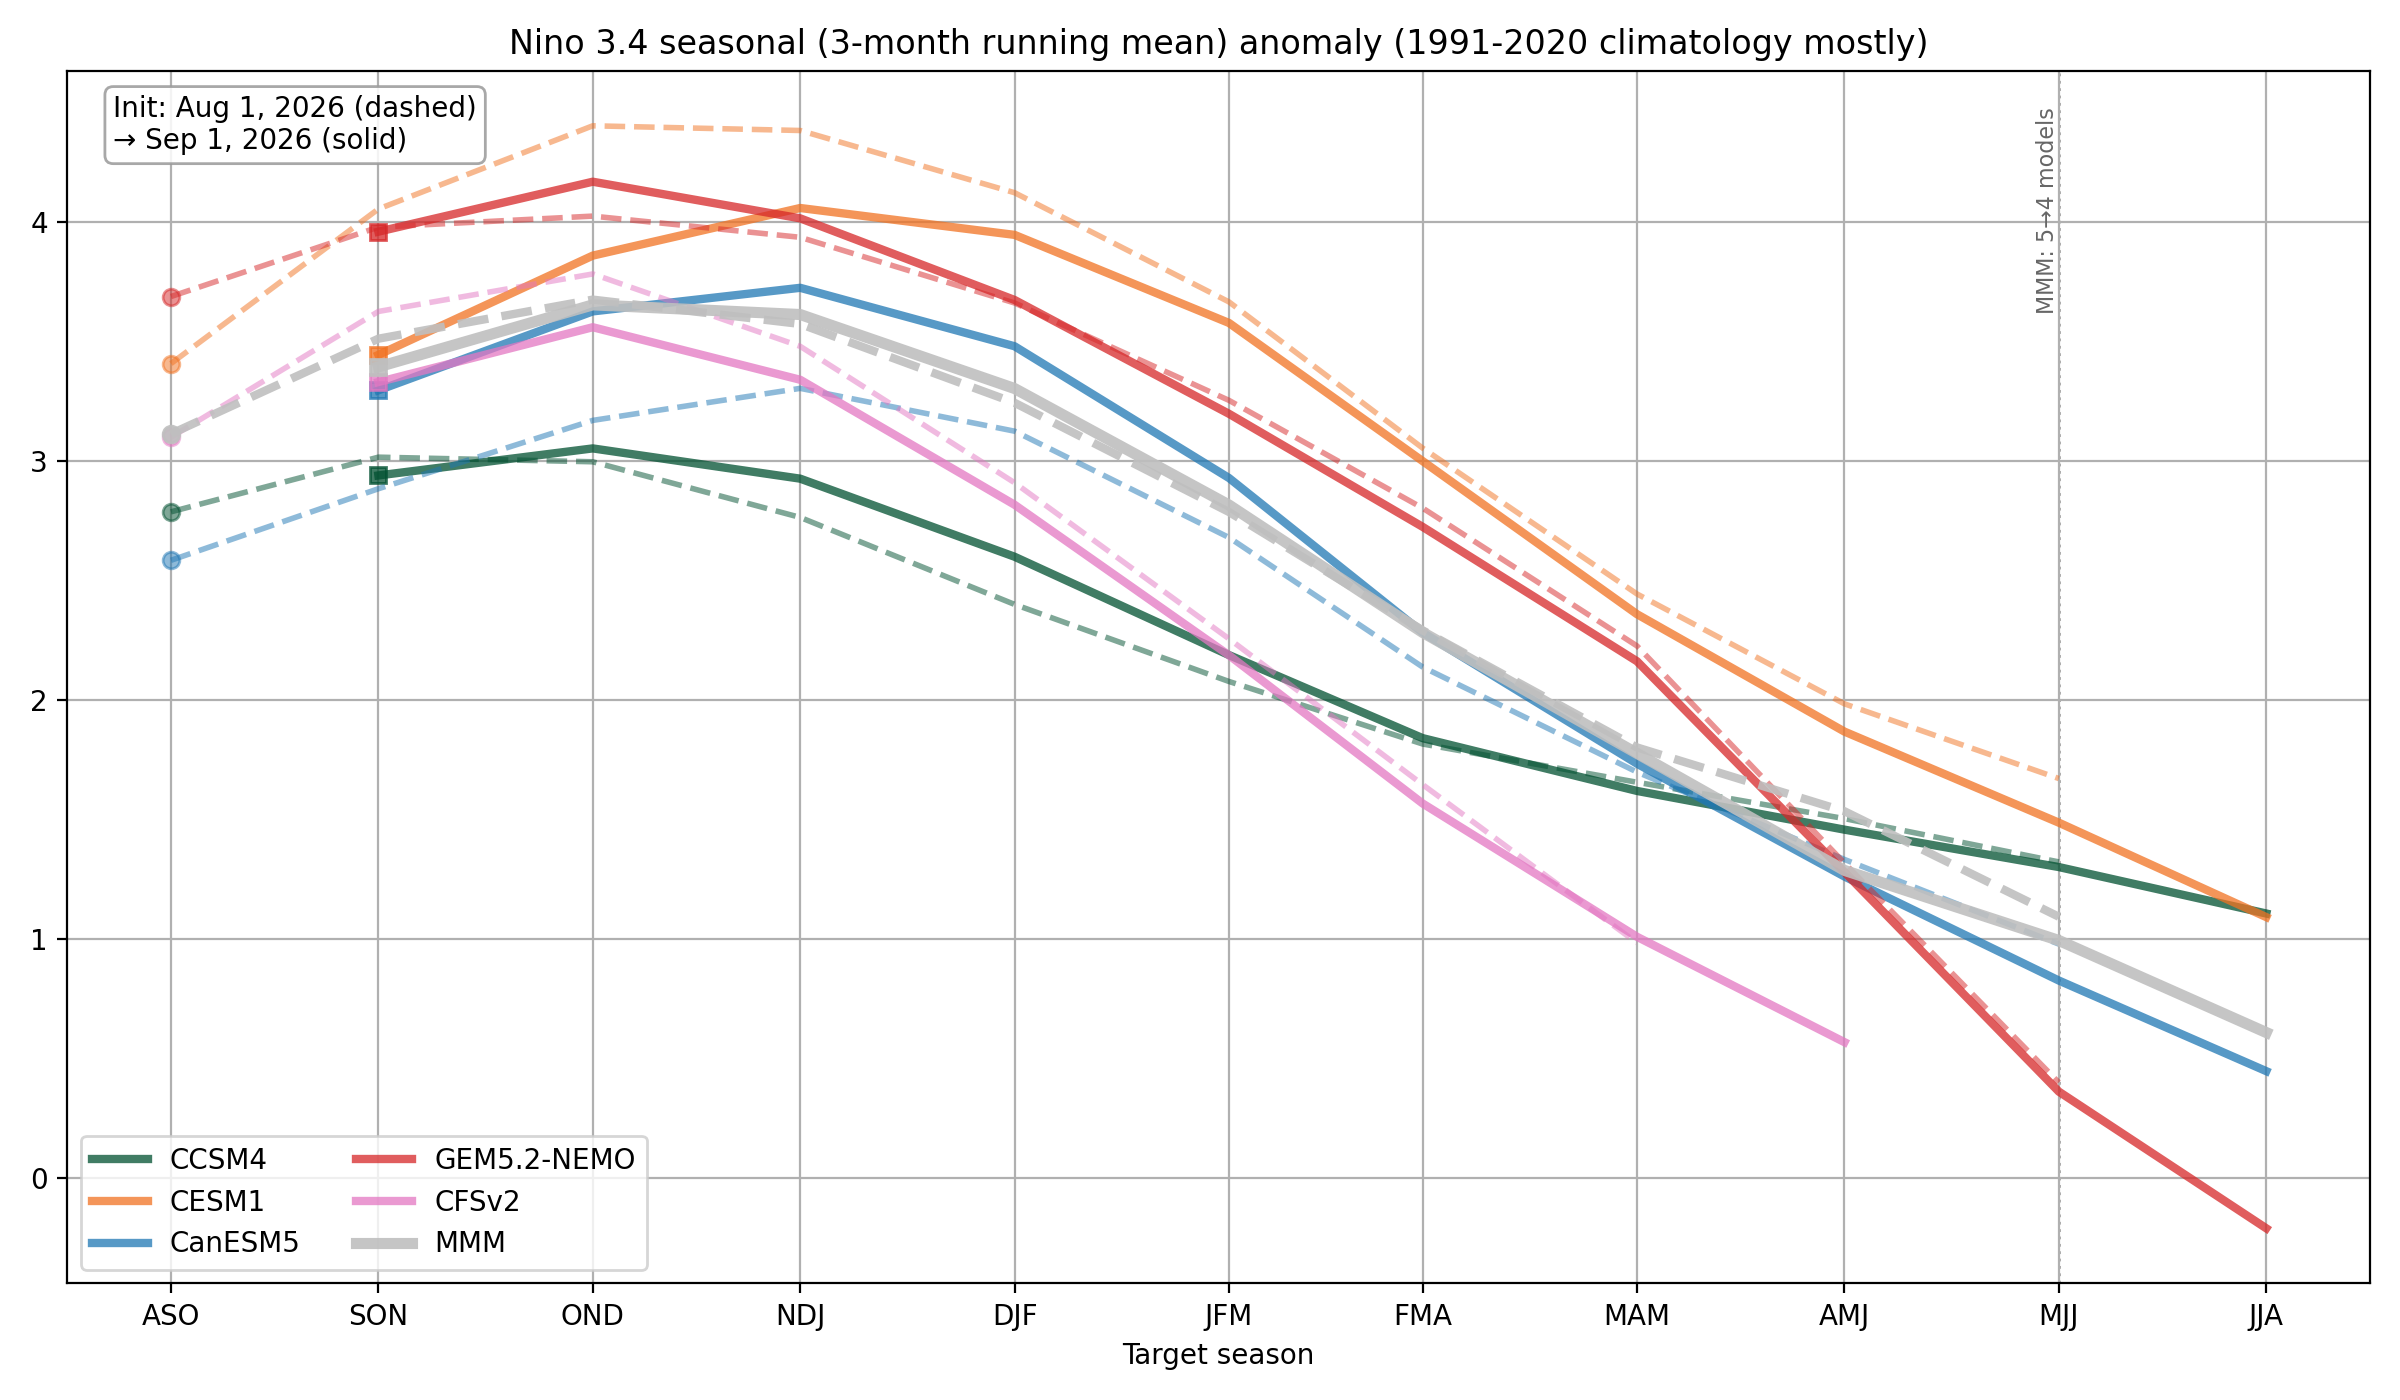
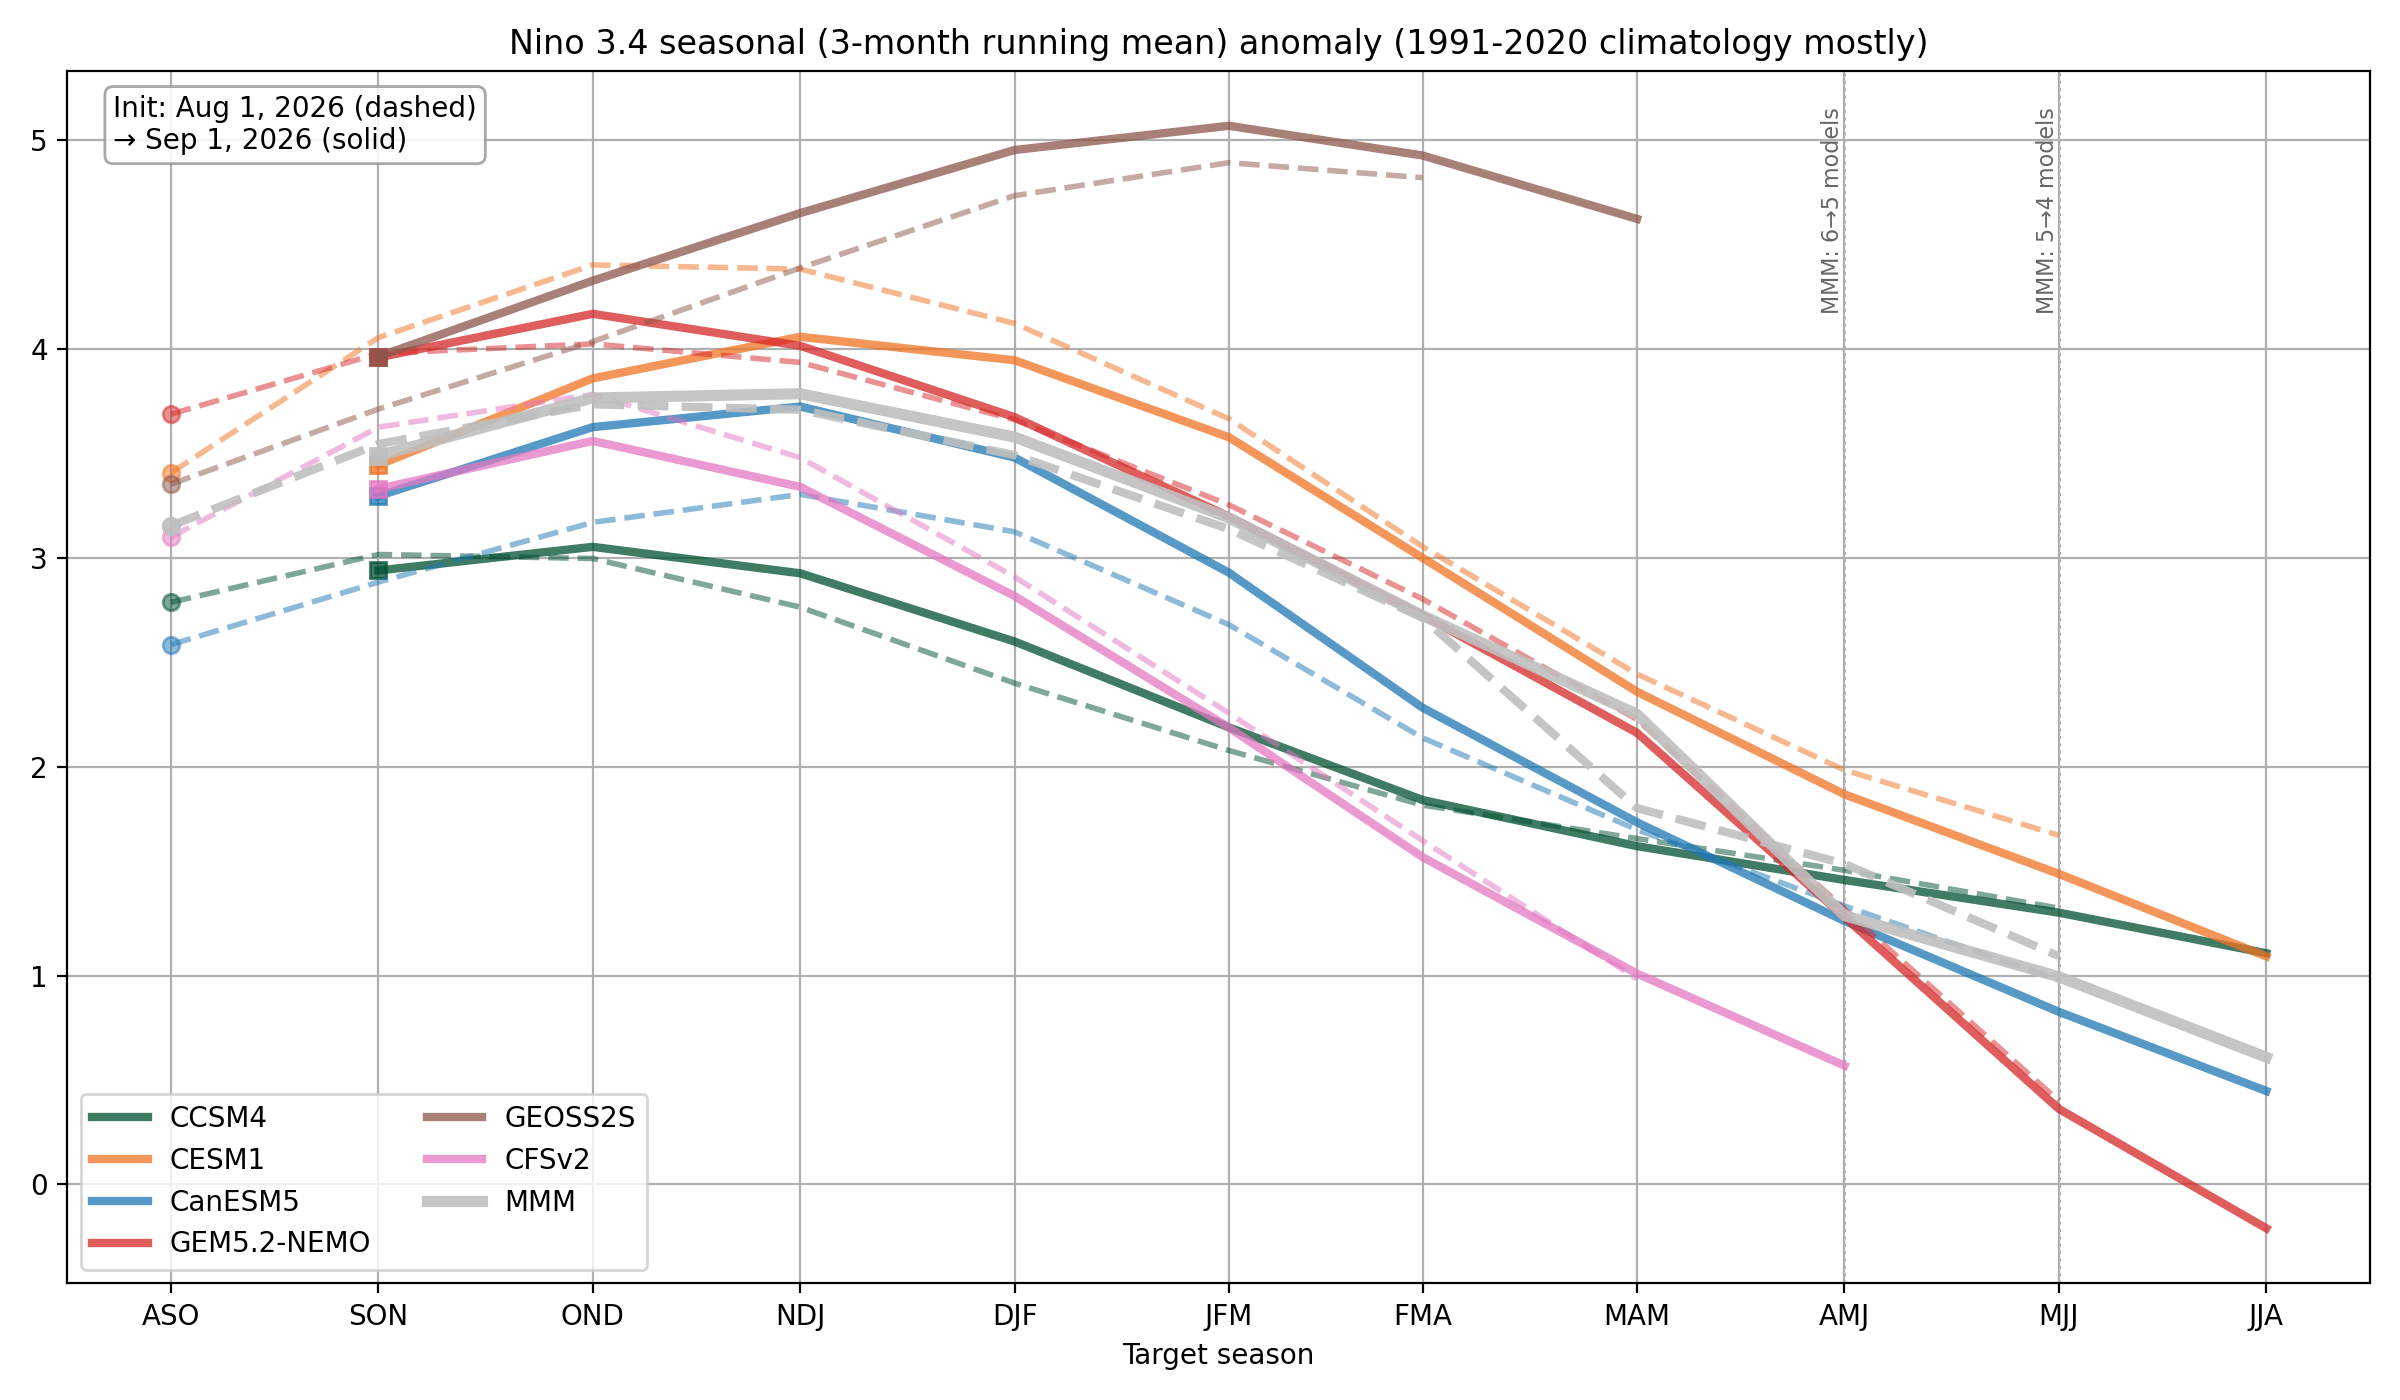
Regenerate latest-forecast plots: NASA-GEOSS2S back in the model pool
Re-ran latest_forecast.py under pangeo-local (not pangeo-2025, whose
installed zarr-python can't read the current store's v3 metadata) now that
NASA-GEOSS2S data is available again for the 2026-09 init. avail grows from
5 to 6 models; the new _annotate_mmm_steps markers now show both
composition changes (6→5 at lead 9 when GEOSS2S drops, 5→4 at lead 10 when
NCEP-CFSv2 drops).

Claude-Session: https://claude.ai/code/session_01Sx79iqrvBdSXQF7K4ZDYs1

diff --git a/plots/latest_forecast/latest_forecast_summary.md b/plots/latest_forecast/latest_forecast_summary.md
@@ -6,17 +6,17 @@ Multi-model-mean (MMM) anomaly for the 12-lead forecast initialized September 20
 
 | | Sep 2026 | Oct 2026 | Nov 2026 | Dec 2026 | Jan 2027 | Feb 2027 | Mar 2027 | Apr 2027 | May 2027 | Jun 2027 | Jul 2027 | Aug 2027 |
 |---|---|---|---|---|---|---|---|---|---|---|---|---|
-| n34 anom | 2.93 | 3.46 | 3.79 | 3.71 | 3.34 | 2.86 | 2.25 | 1.74 | 1.34 | 0.78 | 0.52 | 0.39 |
+| n34 anom | 3.04 | 3.55 | 3.88 | 3.87 | 3.61 | 3.26 | 2.71 | 2.20 | 1.84 | 0.78 | 0.52 | 0.39 |
 | n34 rank (n=36) | 1 | 1 | 1 | 1 | 1 | 1 | 1 | 1 | 1 | 4 | 9 | 12 |
-| n34r anom | 2.37 | 2.80 | 3.10 | 3.07 | 2.68 | 2.16 | 1.33 | 0.77 | 0.52 | 0.06 | -0.25 | -0.44 |
-| n34r rank (n=36) | 1 | 1 | 1 | 1 | 1 | 1 | 1 | 1 | 4 | 20 | 25 | 32 |
+| n34r anom | 2.37 | 2.77 | 3.08 | 3.09 | 2.78 | 2.30 | 1.51 | 0.96 | 0.75 | 0.06 | -0.25 | -0.44 |
+| n34r rank (n=36) | 1 | 1 | 1 | 1 | 1 | 1 | 1 | 1 | 1 | 20 | 25 | 32 |
 
 ## Seasonal (3-month running mean)
 
 | | SON | OND | NDJ | DJF | JFM | FMA | MAM | AMJ | MJJ | JJA |
 |---|---|---|---|---|---|---|---|---|---|---|
-| n34 anom | 3.39 | 3.65 | 3.61 | 3.30 | 2.81 | 2.28 | 1.78 | 1.29 | 0.99 | 0.61 |
+| n34 anom | 3.49 | 3.76 | 3.78 | 3.58 | 3.19 | 2.72 | 2.25 | 1.29 | 0.99 | 0.61 |
 | n34 rank (n=36) | 1 | 1 | 1 | 1 | 1 | 1 | 1 | 1 | 1 | 5 |
-| n34r anom | 2.76 | 2.99 | 2.95 | 2.64 | 2.07 | 1.41 | 0.85 | 0.44 | 0.21 | -0.17 |
+| n34r anom | 2.75 | 2.98 | 2.99 | 2.73 | 2.21 | 1.59 | 1.03 | 0.44 | 0.21 | -0.17 |
 | n34r rank (n=36) | 1 | 1 | 1 | 1 | 1 | 1 | 1 | 5 | 11 | 24 |
 
